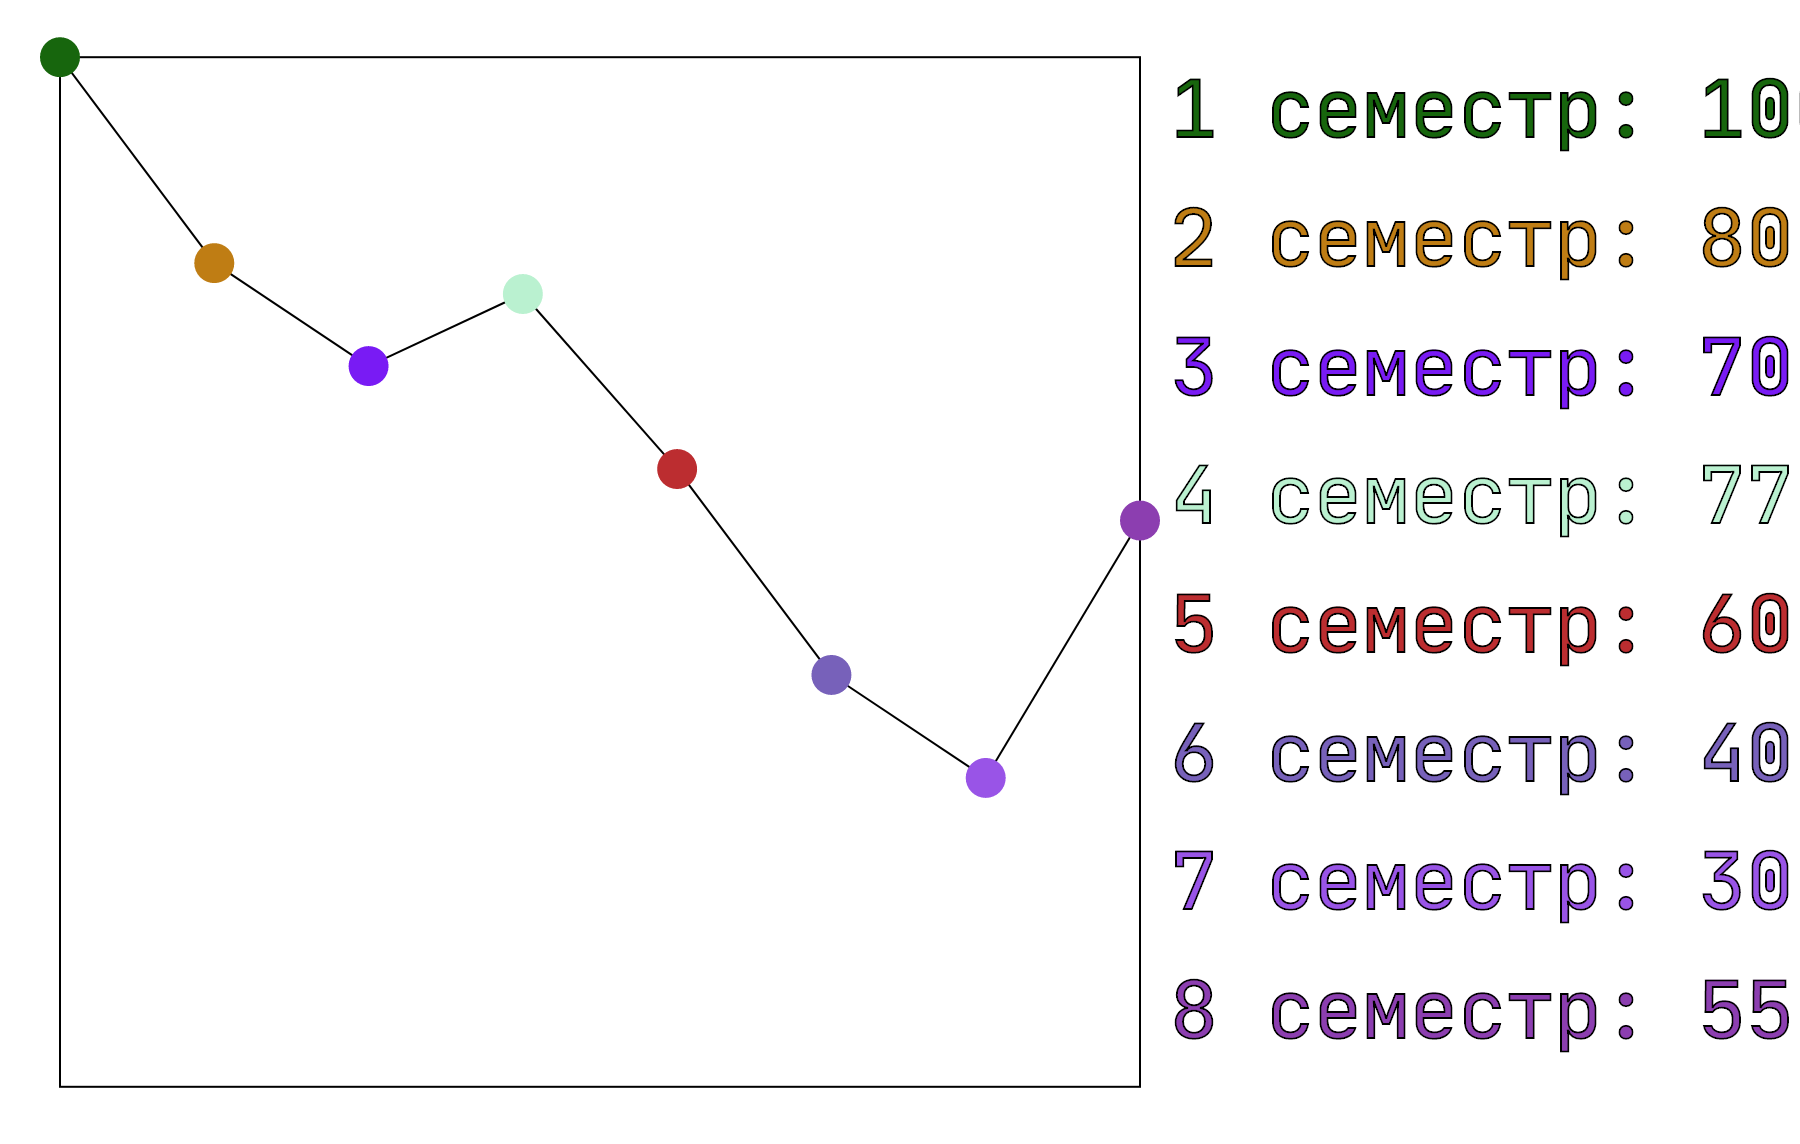
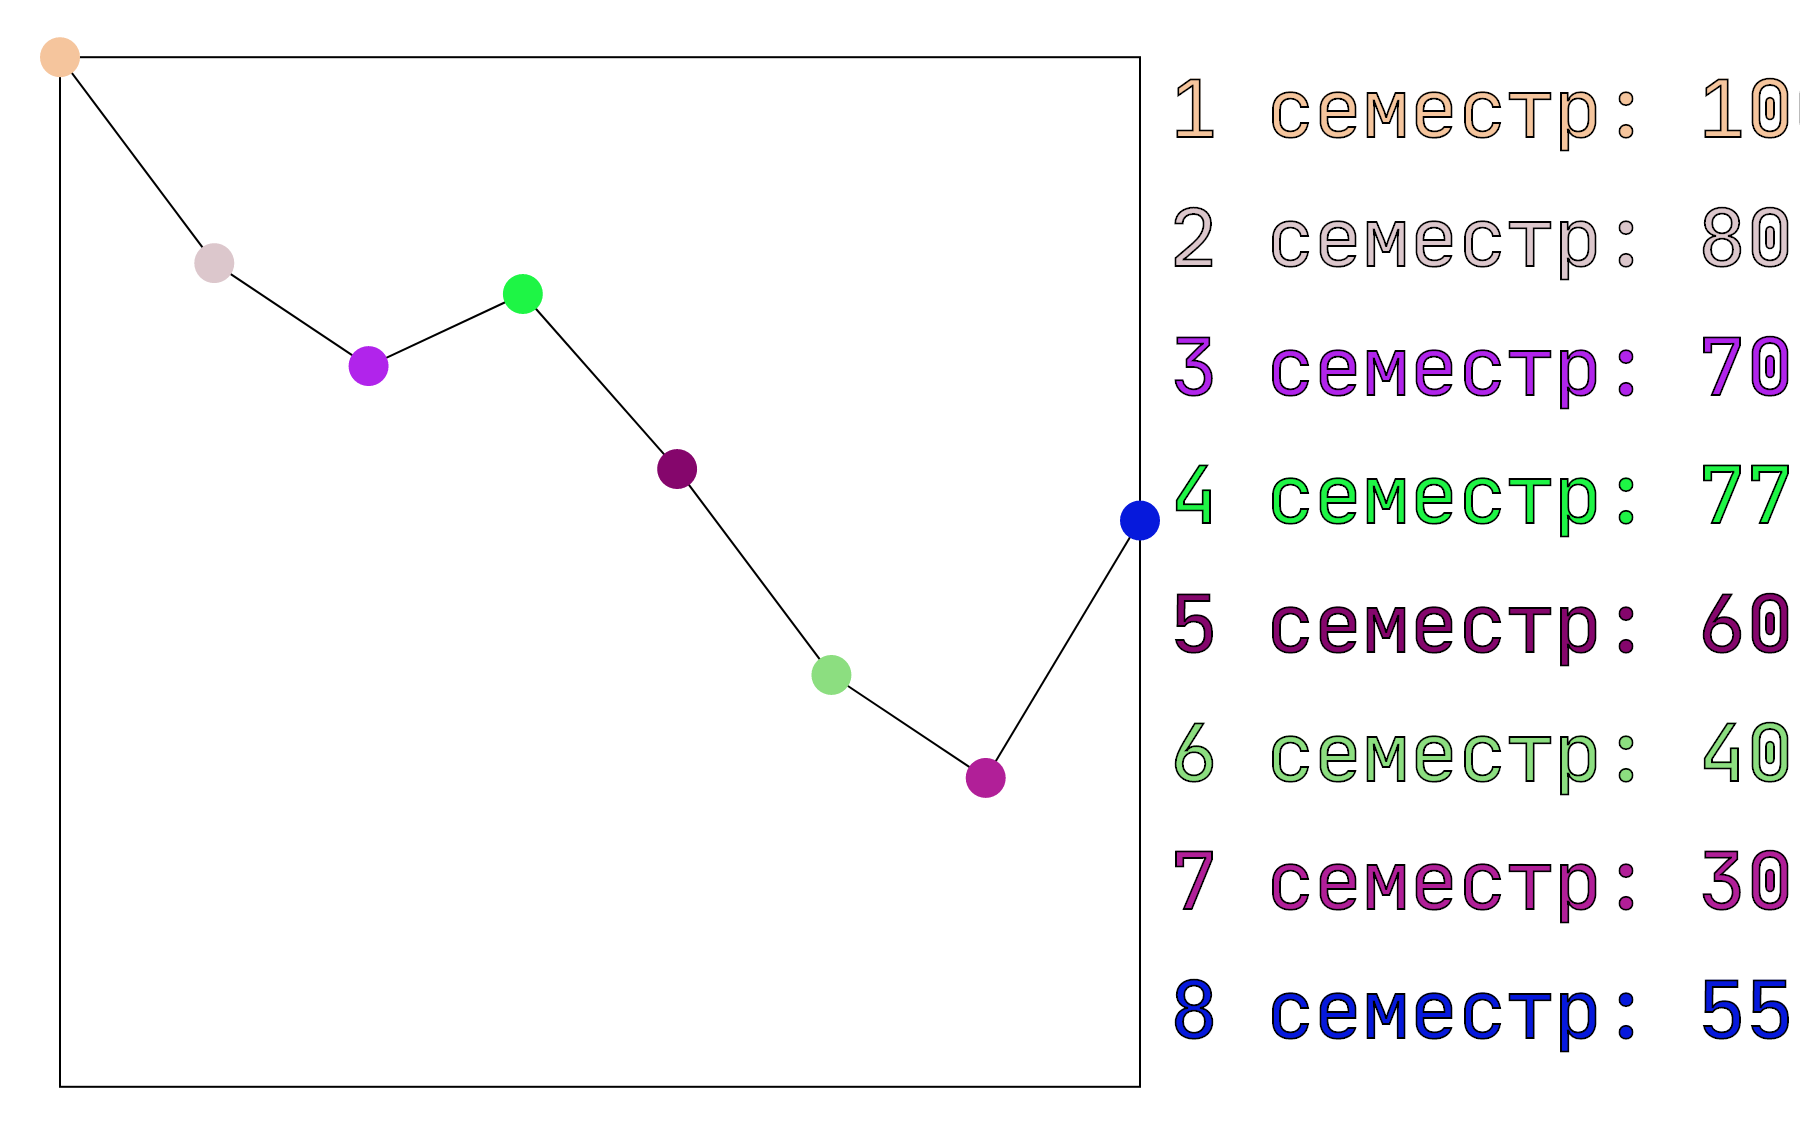
Fixed notes. Added tests.

diff --git a/src/test/kotlin/Test1.kt b/src/test/kotlin/Test1.kt
@@ -1,4 +1,6 @@
+import org.jetbrains.skiko.toImage
 import java.io.File
+import javax.imageio.ImageIO
 import kotlin.test.*
 
 internal class Test1 {
@@ -30,5 +32,117 @@ internal class Test1 {
         }
     }
 
+    fun testExpectedActual1() {
+        val args = arrayOf(
+            "schedule_diagram",
+            "TestFiles/TestExpectedActual/data1.txt",
+            "TestFiles/TestExpectedActual/actual1.png"
+        )
+        val input = Input(args)
+        createWindow(
+            "pf-2021-viz",
+            input.type,
+            input.data,
+            input.outputFileName
+        )
 
+        val actualImage = ImageIO.read(File("TestFiles/TestExpectedActual/actual1.png")).toImage().encodeToData()
+        val expectedImage = ImageIO.read(File("TestFiles/TestExpectedActual/expected1.png")).toImage().encodeToData()
+
+        assertEquals(actualImage, expectedImage)
+    }
+
+    fun testExpectedActual2() {
+        val args =
+            arrayOf("pie_diagram", "TestFiles/TestExpectedActual/data2.txt", "TestFiles/TestExpectedActual/actual2.png")
+        val input = Input(args)
+        createWindow(
+            "pf-2021-viz",
+            input.type,
+            input.data,
+            input.outputFileName
+        )
+
+        val actualImage = ImageIO.read(File("TestFiles/TestExpectedActual/actual2.png")).toImage().encodeToData()
+        val expectedImage = ImageIO.read(File("TestFiles/TestExpectedActual/expected2.png")).toImage().encodeToData()
+
+        assertEquals(actualImage, expectedImage)
+    }
+
+    fun testExpectedActual3() {
+        val args = arrayOf(
+            "column_diagram",
+            "TestFiles/TestExpectedActual/data3.txt",
+            "TestFiles/TestExpectedActual/actual3.png"
+        )
+        val input = Input(args)
+        createWindow(
+            "pf-2021-viz",
+            input.type,
+            input.data,
+            input.outputFileName
+        )
+
+        val actualImage = ImageIO.read(File("TestFiles/TestExpectedActual/actual3.png")).toImage().encodeToData()
+        val expectedImage = ImageIO.read(File("TestFiles/TestExpectedActual/expected3.png")).toImage().encodeToData()
+
+        assertEquals(actualImage, expectedImage)
+    }
+
+    fun testExpectedActual4() {
+        val args = arrayOf(
+            "schedule_diagram",
+            "TestFiles/TestExpectedActual/data4.txt",
+            "TestFiles/TestExpectedActual/actual4.png"
+        )
+        val input = Input(args)
+        createWindow(
+            "pf-2021-viz",
+            input.type,
+            input.data,
+            input.outputFileName
+        )
+
+        val actualImage = ImageIO.read(File("TestFiles/TestExpectedActual/actual4.png")).toImage().encodeToData()
+        val expectedImage = ImageIO.read(File("TestFiles/TestExpectedActual/expected4.png")).toImage().encodeToData()
+
+        assertEquals(actualImage, expectedImage)
+    }
+
+    fun testExpectedActual5() {
+        val args =
+            arrayOf("pie_diagram", "TestFiles/TestExpectedActual/data5.txt", "TestFiles/TestExpectedActual/actual5.png")
+        val input = Input(args)
+        createWindow(
+            "pf-2021-viz",
+            input.type,
+            input.data,
+            input.outputFileName
+        )
+
+        val actualImage = ImageIO.read(File("TestFiles/TestExpectedActual/actual5.png")).toImage().encodeToData()
+        val expectedImage = ImageIO.read(File("TestFiles/TestExpectedActual/expected5.png")).toImage().encodeToData()
+
+        assertEquals(actualImage, expectedImage)
+    }
+
+    fun testExpectedActual6() {
+        val args = arrayOf(
+            "column_diagram",
+            "TestFiles/TestExpectedActual/data6.txt",
+            "TestFiles/TestExpectedActual/actual6.png"
+        )
+        val input = Input(args)
+        createWindow(
+            "pf-2021-viz",
+            input.type,
+            input.data,
+            input.outputFileName
+        )
+
+        val actualImage = ImageIO.read(File("TestFiles/TestExpectedActual/actual6.png")).toImage().encodeToData()
+        val expectedImage = ImageIO.read(File("TestFiles/TestExpectedActual/expected6.png")).toImage().encodeToData()
+
+        assertEquals(actualImage, expectedImage)
+    }
 }

diff --git a/src/main/kotlin/Render.kt b/src/main/kotlin/Render.kt
@@ -1,8 +1,8 @@
 import org.jetbrains.skija.*
 import org.jetbrains.skiko.SkiaLayer
 import org.jetbrains.skiko.SkiaRenderer
-import java.util.*
 import kotlin.math.min
+import kotlin.random.Random
 
 class Renderer(val layer: SkiaLayer, val type: Diagram, val listNameValue: List<NameValue>) : SkiaRenderer {
     val typeface = Typeface.makeFromFile("fonts/JetBrainsMono-Regular.ttf")
@@ -17,9 +17,9 @@ class Renderer(val layer: SkiaLayer, val type: Diagram, val listNameValue: List<
     val randomColor = List(listNameValue.size) {
         Color.makeARGB(
             255,
-            Random().nextInt(256),
-            Random().nextInt(256),
-            Random().nextInt(256)
+            Random.nextInt(256),
+            Random.nextInt(256),
+            Random.nextInt(256)
         )
     }
     val listNameColor = List(listNameValue.size) { NameColor(listNameValue[it].name, randomColor[it]) }
@@ -71,8 +71,7 @@ class Renderer(val layer: SkiaLayer, val type: Diagram, val listNameValue: List<
 
         //отрисовка сегментов диаграммы
         var start = 0.0
-        val steps = listNameValue.size
-        for (i in 0..steps - 1) {
+        for (i in listNameValue.indices) {
             val stepSize = getStepSize(listNameValue[i].value.toDouble(), totalValue)
             if (paint.mode != PaintMode.STROKE) { //проверка нужна для того случая, если мы делаем обводку диаграммы
                 paint.color = listNameColor[i].color
@@ -108,7 +107,7 @@ class Renderer(val layer: SkiaLayer, val type: Diagram, val listNameValue: List<
         }
 
         //отрисовка столбцов диаграммы
-        for (i in 0..steps - 1) {
+        for (i in listNameValue.indices) {
             if (paint.mode != PaintMode.STROKE) { //проверка нужна для того случая, если мы делаем обводку диаграммы
                 paint.color = listNameColor[i].color
             }
@@ -154,8 +153,8 @@ class Renderer(val layer: SkiaLayer, val type: Diagram, val listNameValue: List<
             )
 
             //отрисовка линий между точками
-            for (i in 0..steps - 1) {
-                if (i != steps - 1) {
+            for (i in listNameValue.indices) {
+                if (i != listNameValue.size - 1) {
                     this.drawLine(
                         (startX + i * dX).toFloat(),
                         (startY - getSize(listNameValue[i].value.toDouble())).toFloat(),
@@ -168,7 +167,7 @@ class Renderer(val layer: SkiaLayer, val type: Diagram, val listNameValue: List<
 
             //отрисовка точек
             paint.mode = PaintMode.FILL
-            for (i in 0..steps - 1) {
+            for (i in listNameValue.indices) {
                 paint.color = listNameColor[i].color
                 this.drawCircle(
                     (startX + i * dX).toFloat(),
@@ -179,7 +178,7 @@ class Renderer(val layer: SkiaLayer, val type: Diagram, val listNameValue: List<
             }
         } else {
             //обводка кругов
-            for (i in 0..steps - 1) {
+            for (i in listNameValue.indices) {
                 this.drawCircle(
                     (startX + i * dX).toFloat(),
                     (startY - getSize(listNameValue[i].value.toDouble())).toFloat(),
@@ -204,7 +203,7 @@ class Renderer(val layer: SkiaLayer, val type: Diagram, val listNameValue: List<
         val maxLen = listNameValue.maxOf { it.name.length }
 
         //отрисовка названий: значений
-        for (i in 0..steps - 1) {
+        for (i in listNameValue.indices) {
             if (paint.mode != PaintMode.STROKE) { //проверка нужна для того случая, если мы делаем обводку диаграммы
                 paint.color = listNameColor[i].color
             }

diff --git a/src/main/kotlin/main.kt b/src/main/kotlin/main.kt
@@ -1,7 +1,10 @@
 import kotlinx.coroutines.Dispatchers
 import kotlinx.coroutines.runBlocking
 import kotlinx.coroutines.swing.Swing
-import org.jetbrains.skija.*
+import org.jetbrains.skija.Bitmap
+import org.jetbrains.skija.Data
+import org.jetbrains.skija.EncodedImageFormat
+import org.jetbrains.skija.Image
 import org.jetbrains.skiko.SkiaWindow
 import java.awt.Dimension
 import java.nio.ByteBuffer
@@ -44,15 +47,15 @@ fun main(args: Array<String>) {
 }
 
 //создание окна и сохранение png
-fun createWindow(title: String, type: Diagram, listNameValue: List<NameValue>, outputFileName: String) =
+fun createWindow(title: String, type: Diagram, nameValueList: List<NameValue>, outputFileName: String) =
     runBlocking(Dispatchers.Swing) {
         val window = SkiaWindow()
         window.defaultCloseOperation = WindowConstants.DISPOSE_ON_CLOSE
         window.title = title
 
-        window.layer.renderer = Renderer(window.layer, type, listNameValue)
+        window.layer.renderer = Renderer(window.layer, type, nameValueList)
 
-        window.preferredSize = Dimension(900, 600)
+        window.preferredSize = Dimension(2000, 1000)
         window.minimumSize = Dimension(100, 100)
         window.pack()
         window.layer.awaitRedraw()

diff --git a/src/main/kotlin/Input.kt b/src/main/kotlin/Input.kt
@@ -7,18 +7,18 @@ class Input(args: Array<String>) {
 
     init {
         if (args.size != 3) {
-            throw(NotCorrectInputData())
+            throw NotCorrectInputData()
         }
 
         val typeOrNull = Diagram.getDiagramFromString(args[0])
         if (typeOrNull == null) {
-            throw(NotCorrectDiagramType(args[0]))
+            throw NotCorrectDiagramType(args[0])
         } else {
             type = typeOrNull
         }
 
         if (!File(args[1]).isFile) {
-            throw(FileIsNotExist(args[1]))
+            throw FileIsNotExist(args[1])
         } else {
             data = getListOfNameValue(File(args[1]))
         }
@@ -34,7 +34,7 @@ fun getListOfNameValue(file: File): List<NameValue> {
         val name = line.substringAfter(' ')
         val value = line.substringBefore(' ').toIntOrNull()
         if (line == name || name == "" || value == null) {
-            throw(NotCorrectDataInFile(line))
+            throw NotCorrectDataInFile(line)
         }
         list.add(NameValue(name, value))
     }
